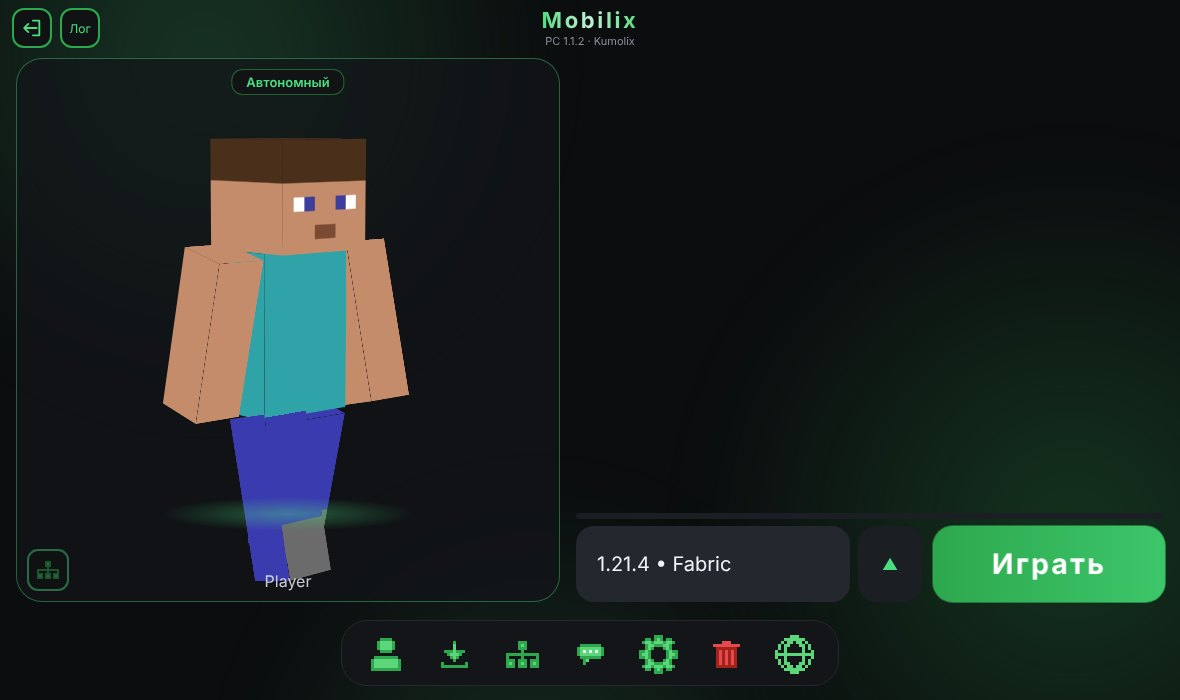
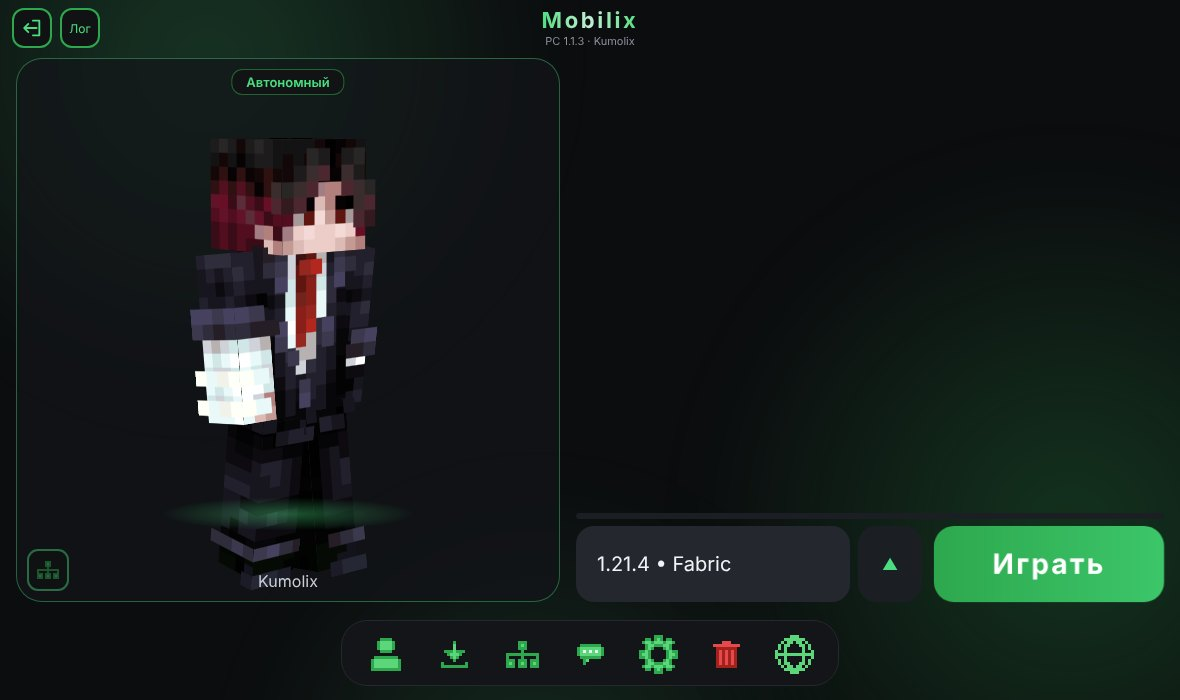
Сайт: скриншоты ПК со скином Kumolix, главный экран ПК за телефоном в шапке
Claude-Session: https://claude.ai/code/session_01S9bn8JJNxN5YWH9ojQ4sKH

Changed region(s): [[0.122, 0.18, 0.3661, 0.84], [0.9763, 0.75, 1.0, 0.84], [0.8237, 0.78, 0.8542, 0.81]]

diff --git a/style.css b/style.css
@@ -53,10 +53,11 @@ body.is-win .cta{flex-direction:row-reverse;justify-content:flex-end}
 
 /* сцена: окно Windows + телефон */
 .stage{position:relative;height:460px}
-.win{position:absolute;left:0;top:34px;width:78%;background:var(--chalk);border:2px solid var(--ink);box-shadow:8px 8px 0 var(--ink)}
+.win{position:absolute;left:0;top:34px;width:84%;background:var(--chalk);border:2px solid var(--ink);box-shadow:8px 8px 0 var(--ink)}
 .win-bar{display:flex;align-items:center;gap:6px;height:30px;padding:0 10px;background:var(--ink);color:var(--chalk)}
 .win-bar i{width:9px;height:9px;background:#7f93b8}
 .win-bar b{margin-left:8px;font:600 12px var(--font)}
+.win-shot{display:block;width:100%;height:auto}
 .win-body{position:relative;display:grid;grid-template-columns:28% 1fr;gap:12px;padding:14px;height:250px;background:#f4faf5}
 .sk u{display:block;background:#dbe9de;height:14px;margin-bottom:10px}
 .sk.main .w{width:70%;height:20px;background:#c3dcc8}

diff --git a/index.html b/index.html
@@ -56,11 +56,7 @@
     <div class="stage" aria-hidden="true">
       <div class="win">
         <div class="win-bar"><i></i><i></i><i></i><b>Mobilix</b></div>
-        <div class="win-body">
-          <div class="sk side"><u></u><u></u><u></u><u></u></div>
-          <div class="sk main"><u class="w"></u><u class="m"></u><u class="g"></u></div>
-          <span class="soon" data-i18n="soon_badge">Windows: скоро</span>
-        </div>
+        <img class="win-shot" src="shots/pc1.jpg" width="1180" height="700" alt="">
       </div>
       <div class="phone"><img src="shots/1.jpg" width="460" height="899" alt=""></div>
     </div>
